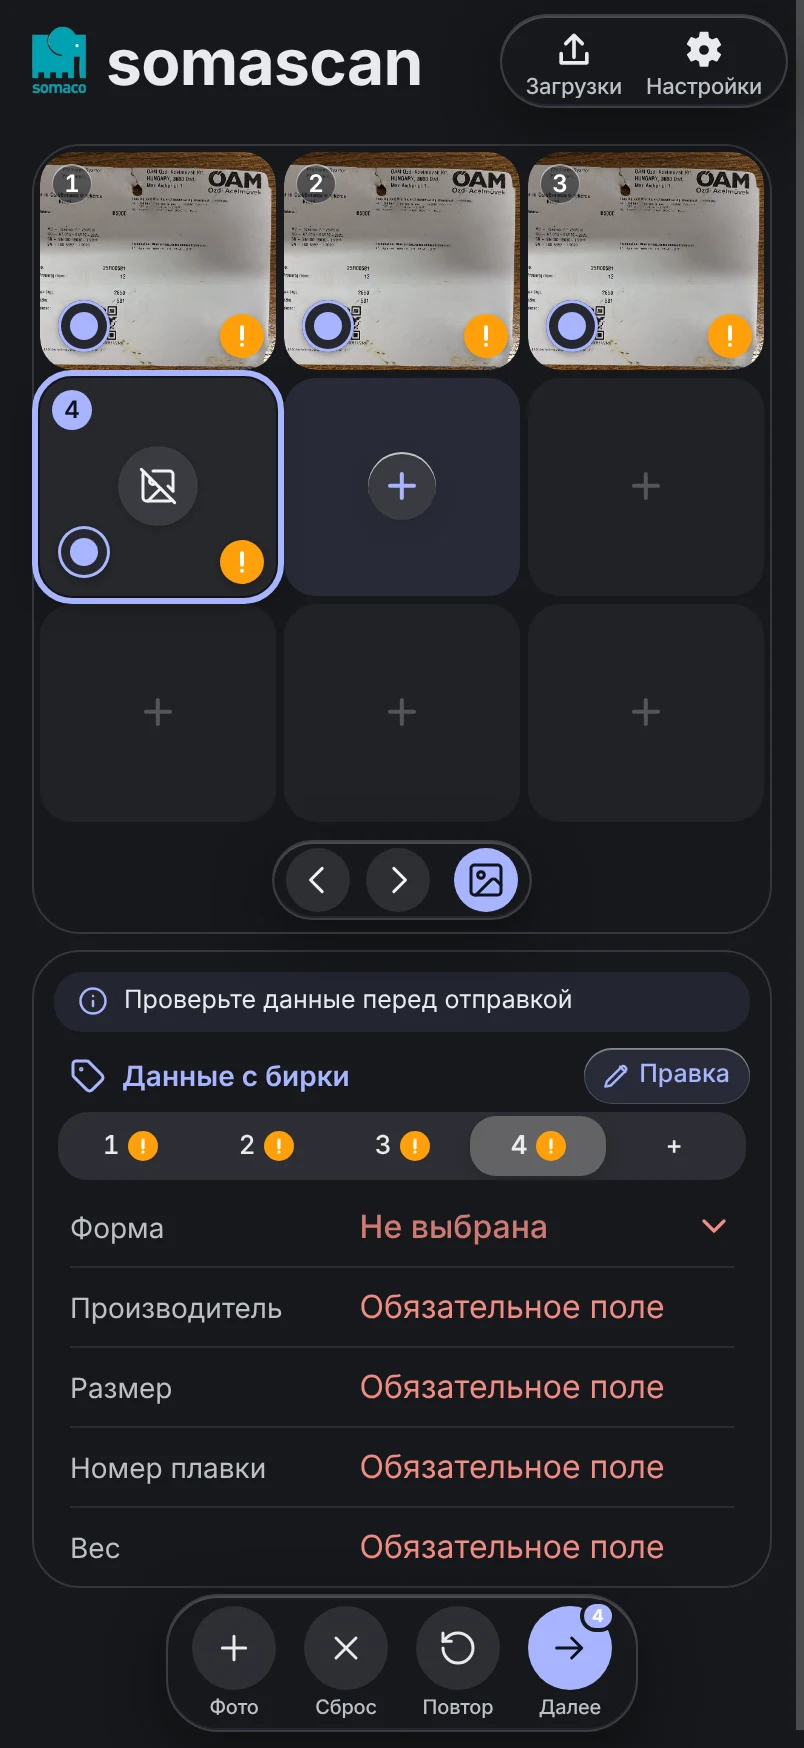
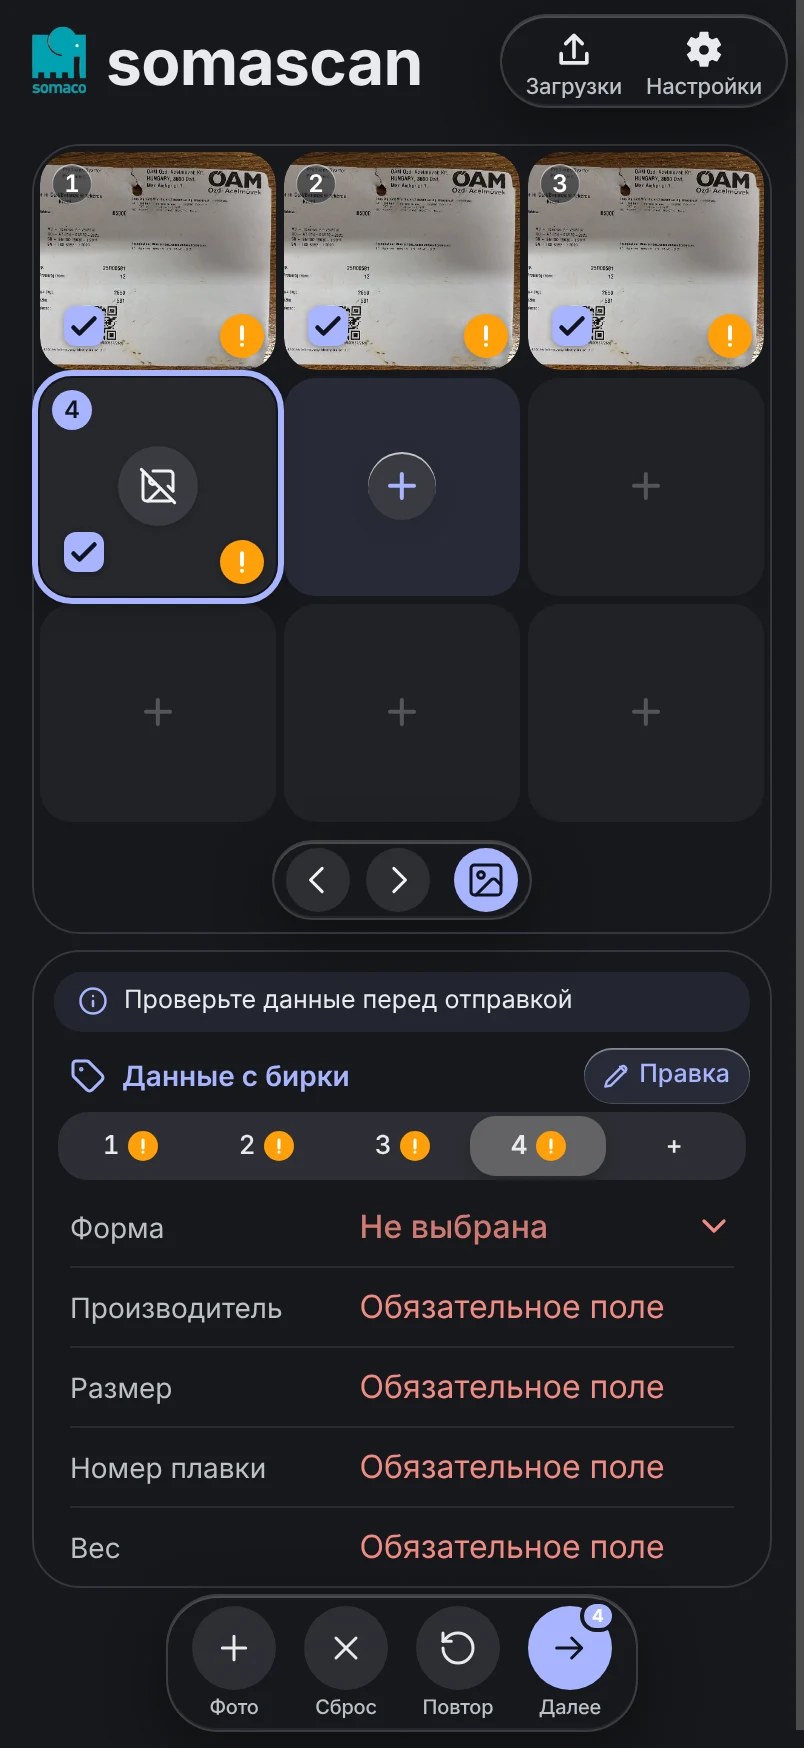
fix: + Grid: the selection mark is a checkbox (rounded square) instead of a radio ring with a dot — nine identical rings with a pupil stared out of the grid like eyes; a selected tag gets an accent box with a check, the others an empty box with a light rim on a translucent fill, and it is not a circ

diff --git a/src/features/workspace/components/PhotoGrid.css b/src/features/workspace/components/PhotoGrid.css
@@ -3,7 +3,7 @@
  * и недоступные ячейки (заполняются только по порядку).
  * Карточка анимирует переход между сеткой и одной биркой (transform от левого верхнего угла).
  *
- * Отметки: выбранная для отправки — заполненная точка-переключатель и неприглушённая миниатюра (номер нейтральный),
+ * Отметки: выбранная для отправки — флажок с галочкой и неприглушённая миниатюра (номер нейтральный),
  * открытая — сплошная акцентная обводка с тенью и номер того же цвета: сразу видно, на какой бирке стоишь.
  */
 
@@ -138,7 +138,7 @@
 
 /*
  * Открытая бирка — сплошная акцентная обводка снаружи ячейки, без свечения, и тень под ней: ячейка приподнята
- * над соседними. От точки выбранных отличается формой, от цветов состояний — цветом. Та же обводка — у рамки,
+ * над соседними. От флажка выбранных отличается формой, от цветов состояний — цветом. Та же обводка — у рамки,
  * которую ведёт палец (`.photo-grid-frame`).
  */
 .photo-grid-cell.is-active {
@@ -300,44 +300,44 @@
 }
 
 /*
- * Выбор — «радиокнопка», как в системных диалогах: светлое кольцо, у выбранной бирки — акцентная точка.
- * В тёмной теме — тёмный круг со светлым кольцом.
+ * Выбор для отправки — флажок (скруглённый квадрат), как в Material: у выбранной бирки — акцентный с галочкой,
+ * у остальных — пустой со светлой кромкой на полупрозрачной подложке (виден на любом фото). Не кольцо с точкой:
+ * девять одинаковых «радиокнопок» смотрели с сетки, как глаза; и не круг — круг с галочкой у готовой бирки
+ * (зелёный, в правом нижнем углу).
  */
-.photo-grid-radio {
-  --radio-bg: #fff;
-  --radio-ring: rgb(0 0 0 / 28%);
-  --radio-dot: #536dfe;
-  position: relative;
-  display: block;
-  width: 26px;
-  height: 26px;
-  background: var(--radio-bg);
-  border-radius: 50%;
-  box-shadow: inset 0 0 0 1.5px var(--radio-ring), 0 1px 3px rgb(0 0 0 / 30%);
+.photo-grid-check {
+  display: grid;
+  width: 20px;
+  height: 20px;
+  place-items: center;
+  color: var(--on-accent);
+  background: rgb(0 0 0 / 28%);
+  border-radius: 6px;
+  box-shadow: inset 0 0 0 1.5px rgb(255 255 255 / 85%), 0 1px 3px rgb(0 0 0 / 30%);
+  transition: background-color 160ms ease, box-shadow 160ms ease;
 }
 
-:root[data-theme='dark'] .photo-grid-radio {
-  --radio-bg: #26282e;
-  --radio-ring: rgb(255 255 255 / 45%);
-  --radio-dot: var(--accent);
+.photo-grid-check svg {
+  width: 14px;
+  height: 14px;
+  fill: none;
+  stroke: currentColor;
+  stroke-width: 3;
+  stroke-linecap: round;
+  stroke-linejoin: round;
+  opacity: 0;
+  transform: scale(.6);
+  transition: opacity 160ms ease, transform 160ms cubic-bezier(.2, 0, 0, 1);
 }
 
-.photo-grid-radio::after {
-  content: '';
-  position: absolute;
-  inset: 6px;
-  background: var(--radio-dot);
-  border-radius: 50%;
-  transform: scale(0);
-  transition: transform 160ms cubic-bezier(.2, 0, 0, 1);
+.photo-grid-cell.is-selected .photo-grid-check {
+  background: var(--accent);
+  box-shadow: 0 1px 3px rgb(0 0 0 / 30%);
 }
 
-.photo-grid-cell.is-selected .photo-grid-radio {
-  --radio-ring: var(--radio-dot);
-}
-
-.photo-grid-cell.is-selected .photo-grid-radio::after {
-  transform: scale(1);
+.photo-grid-cell.is-selected .photo-grid-check svg {
+  opacity: 1;
+  transform: none;
 }
 
 /* Пустые ячейки: следующая свободная — тональная с «плюсом», дальше — недоступные. */

diff --git a/src/features/workspace/components/PhotoGrid.tsx b/src/features/workspace/components/PhotoGrid.tsx
@@ -33,8 +33,8 @@ export interface PhotoGridProps {
  * Сетка 3 × 3 в карточке фото: бирки по порядку (миниатюра или, у бирки без фото, перечёркнутая картинка; номер, состояние),
  * следующая свободная ячейка — «плюс», дальше — недоступные ячейки: заполнять можно только по порядку.
  *
- * Выбранные для отправки бирки обведены акцентным цветом, открытая — контрастным (у выбранной
- * открытой — оба кольца); выбор — «радиокнопка» в левом нижнем углу (кольцо, у выбранной — точка). Состояние — в правом нижнем:
+ * Выбор для отправки — флажок в левом нижнем углу (у выбранной бирки — с галочкой, у остальных миниатюра притушена),
+ * открытая бирка — в акцентной обводке. Состояние — в правом нижнем:
  * спиннер (распознаётся), галочка (готова), оранжевый «!» (не выбрана форма, не заполнены обязательные поля
  * или плавка повторяется), красный знак (ошибка).
  * Нажатие на бирку под рамкой открывает её (карточка увеличивает ячейку до одной бирки), на другую бирку — переносит
@@ -138,7 +138,7 @@ export function PhotoGrid({ gridRef, items, activeIndex, hidden, interactive, on
               aria-label={t('grid.select', { number })}
               onClick={() => onToggleSelected(index)}
             >
-              <span className="photo-grid-radio" aria-hidden="true" />
+              <span className="photo-grid-check" aria-hidden="true"><CheckIcon /></span>
             </button>
           </div>
         )
